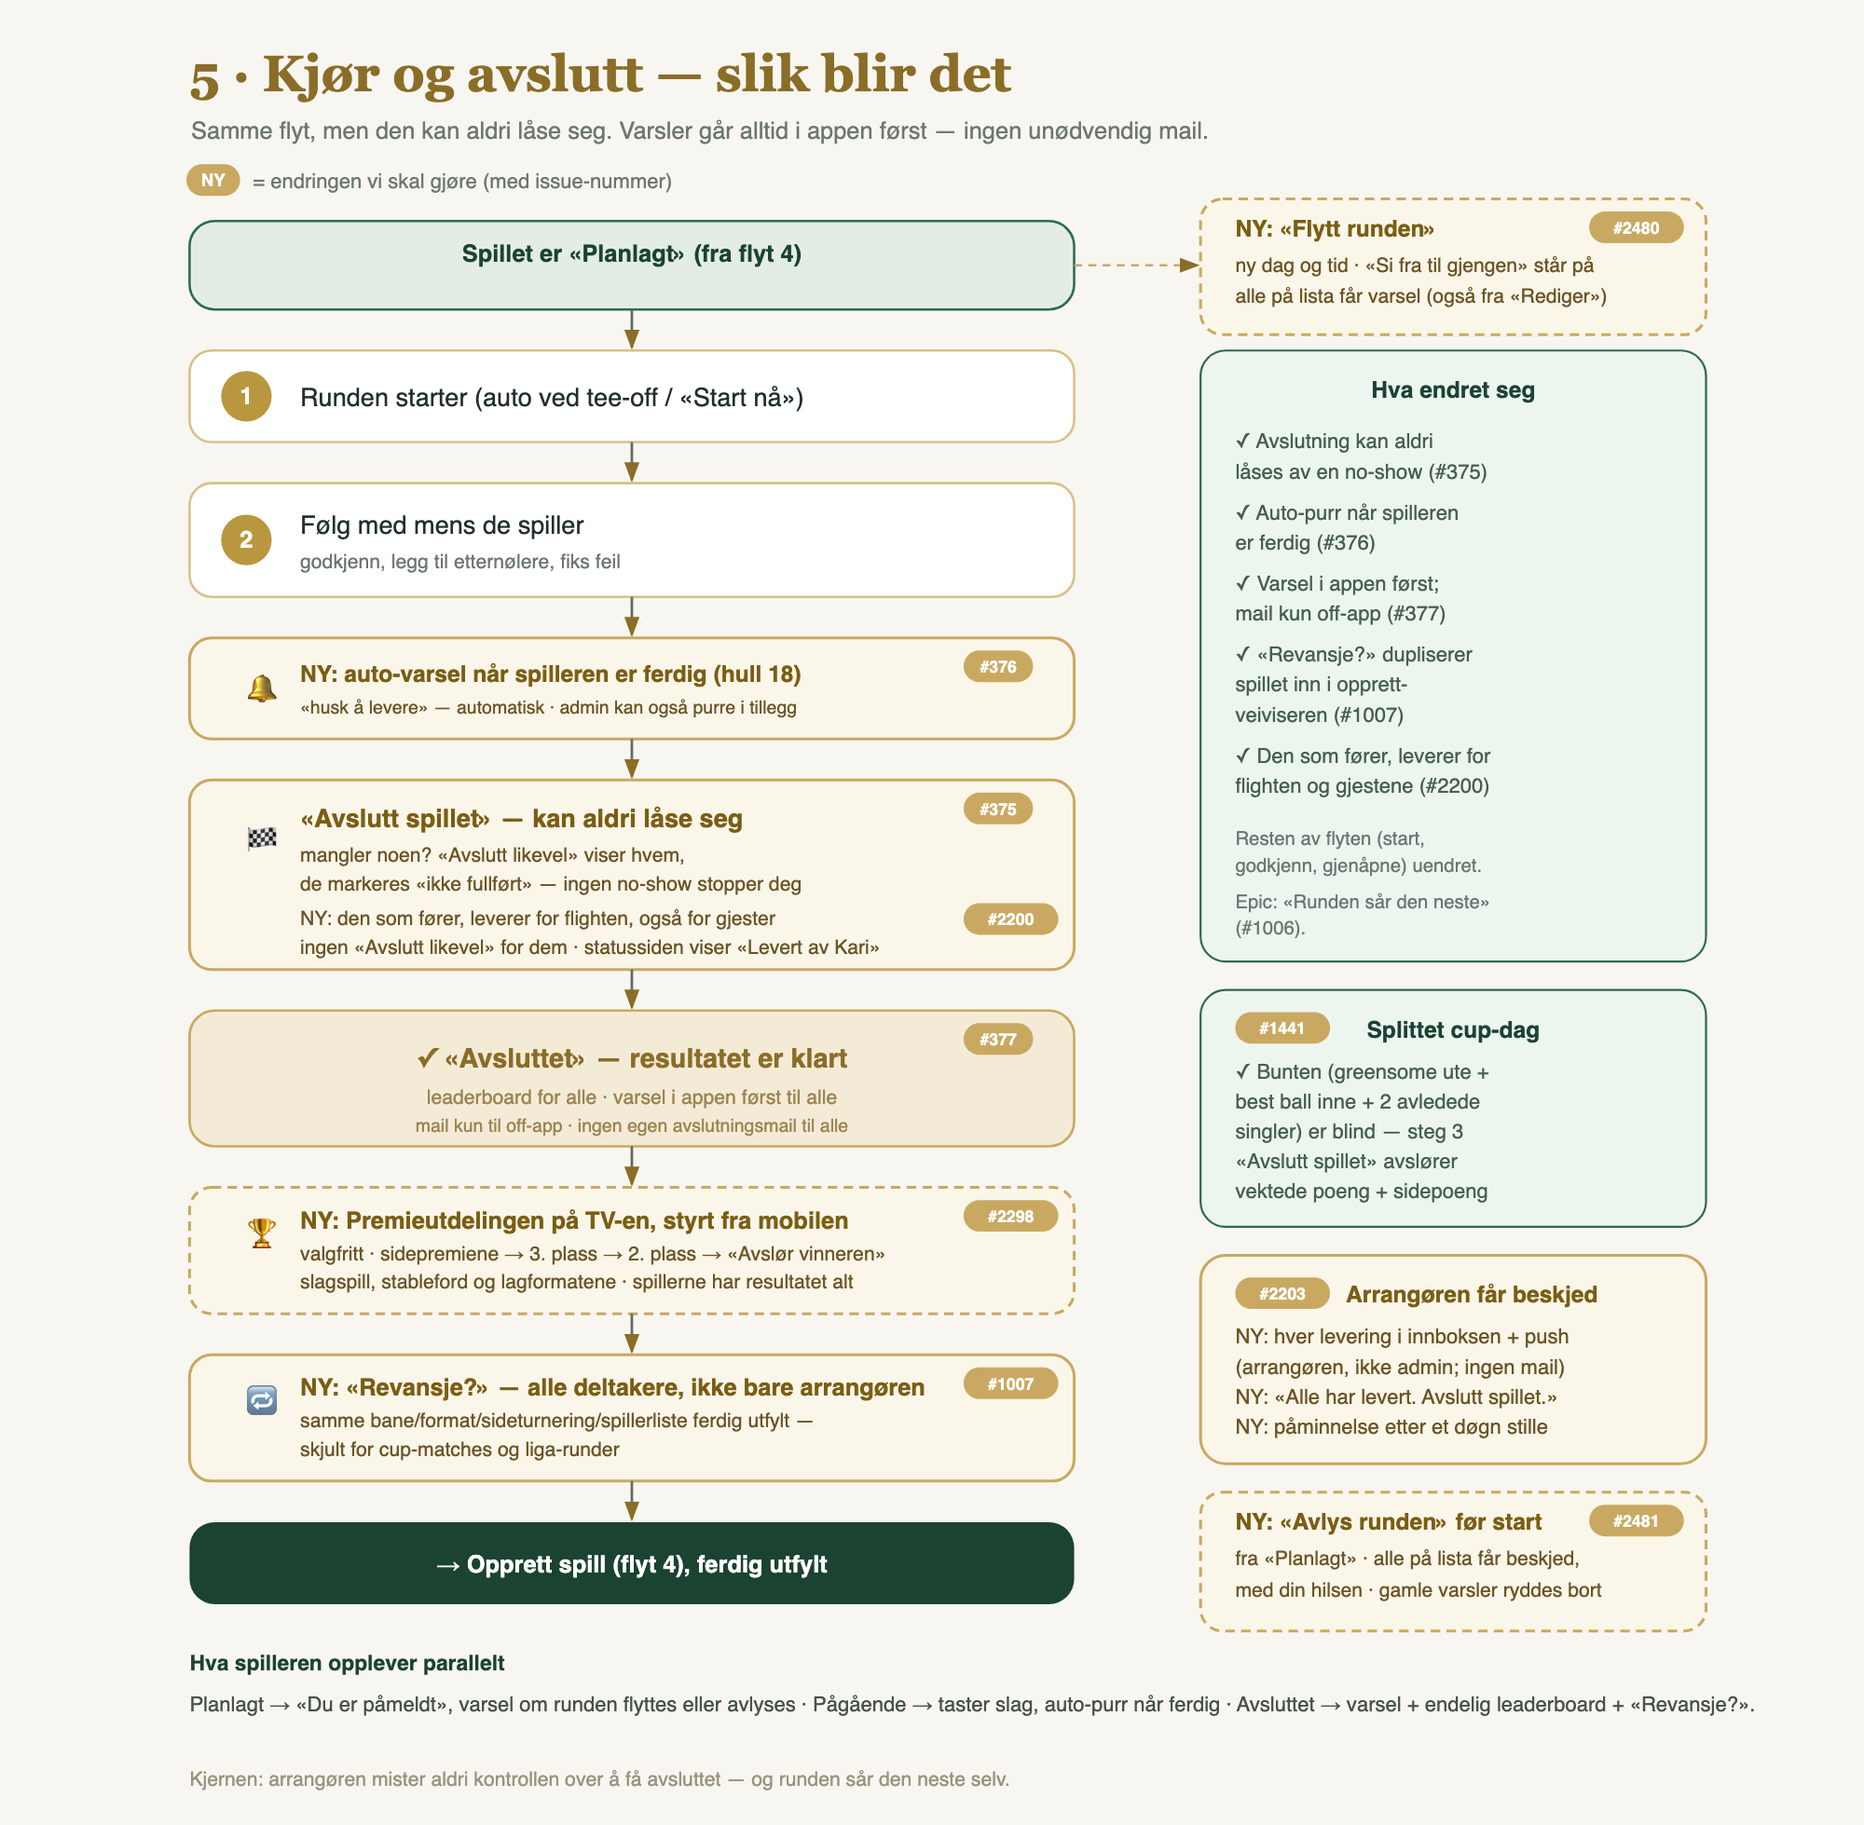
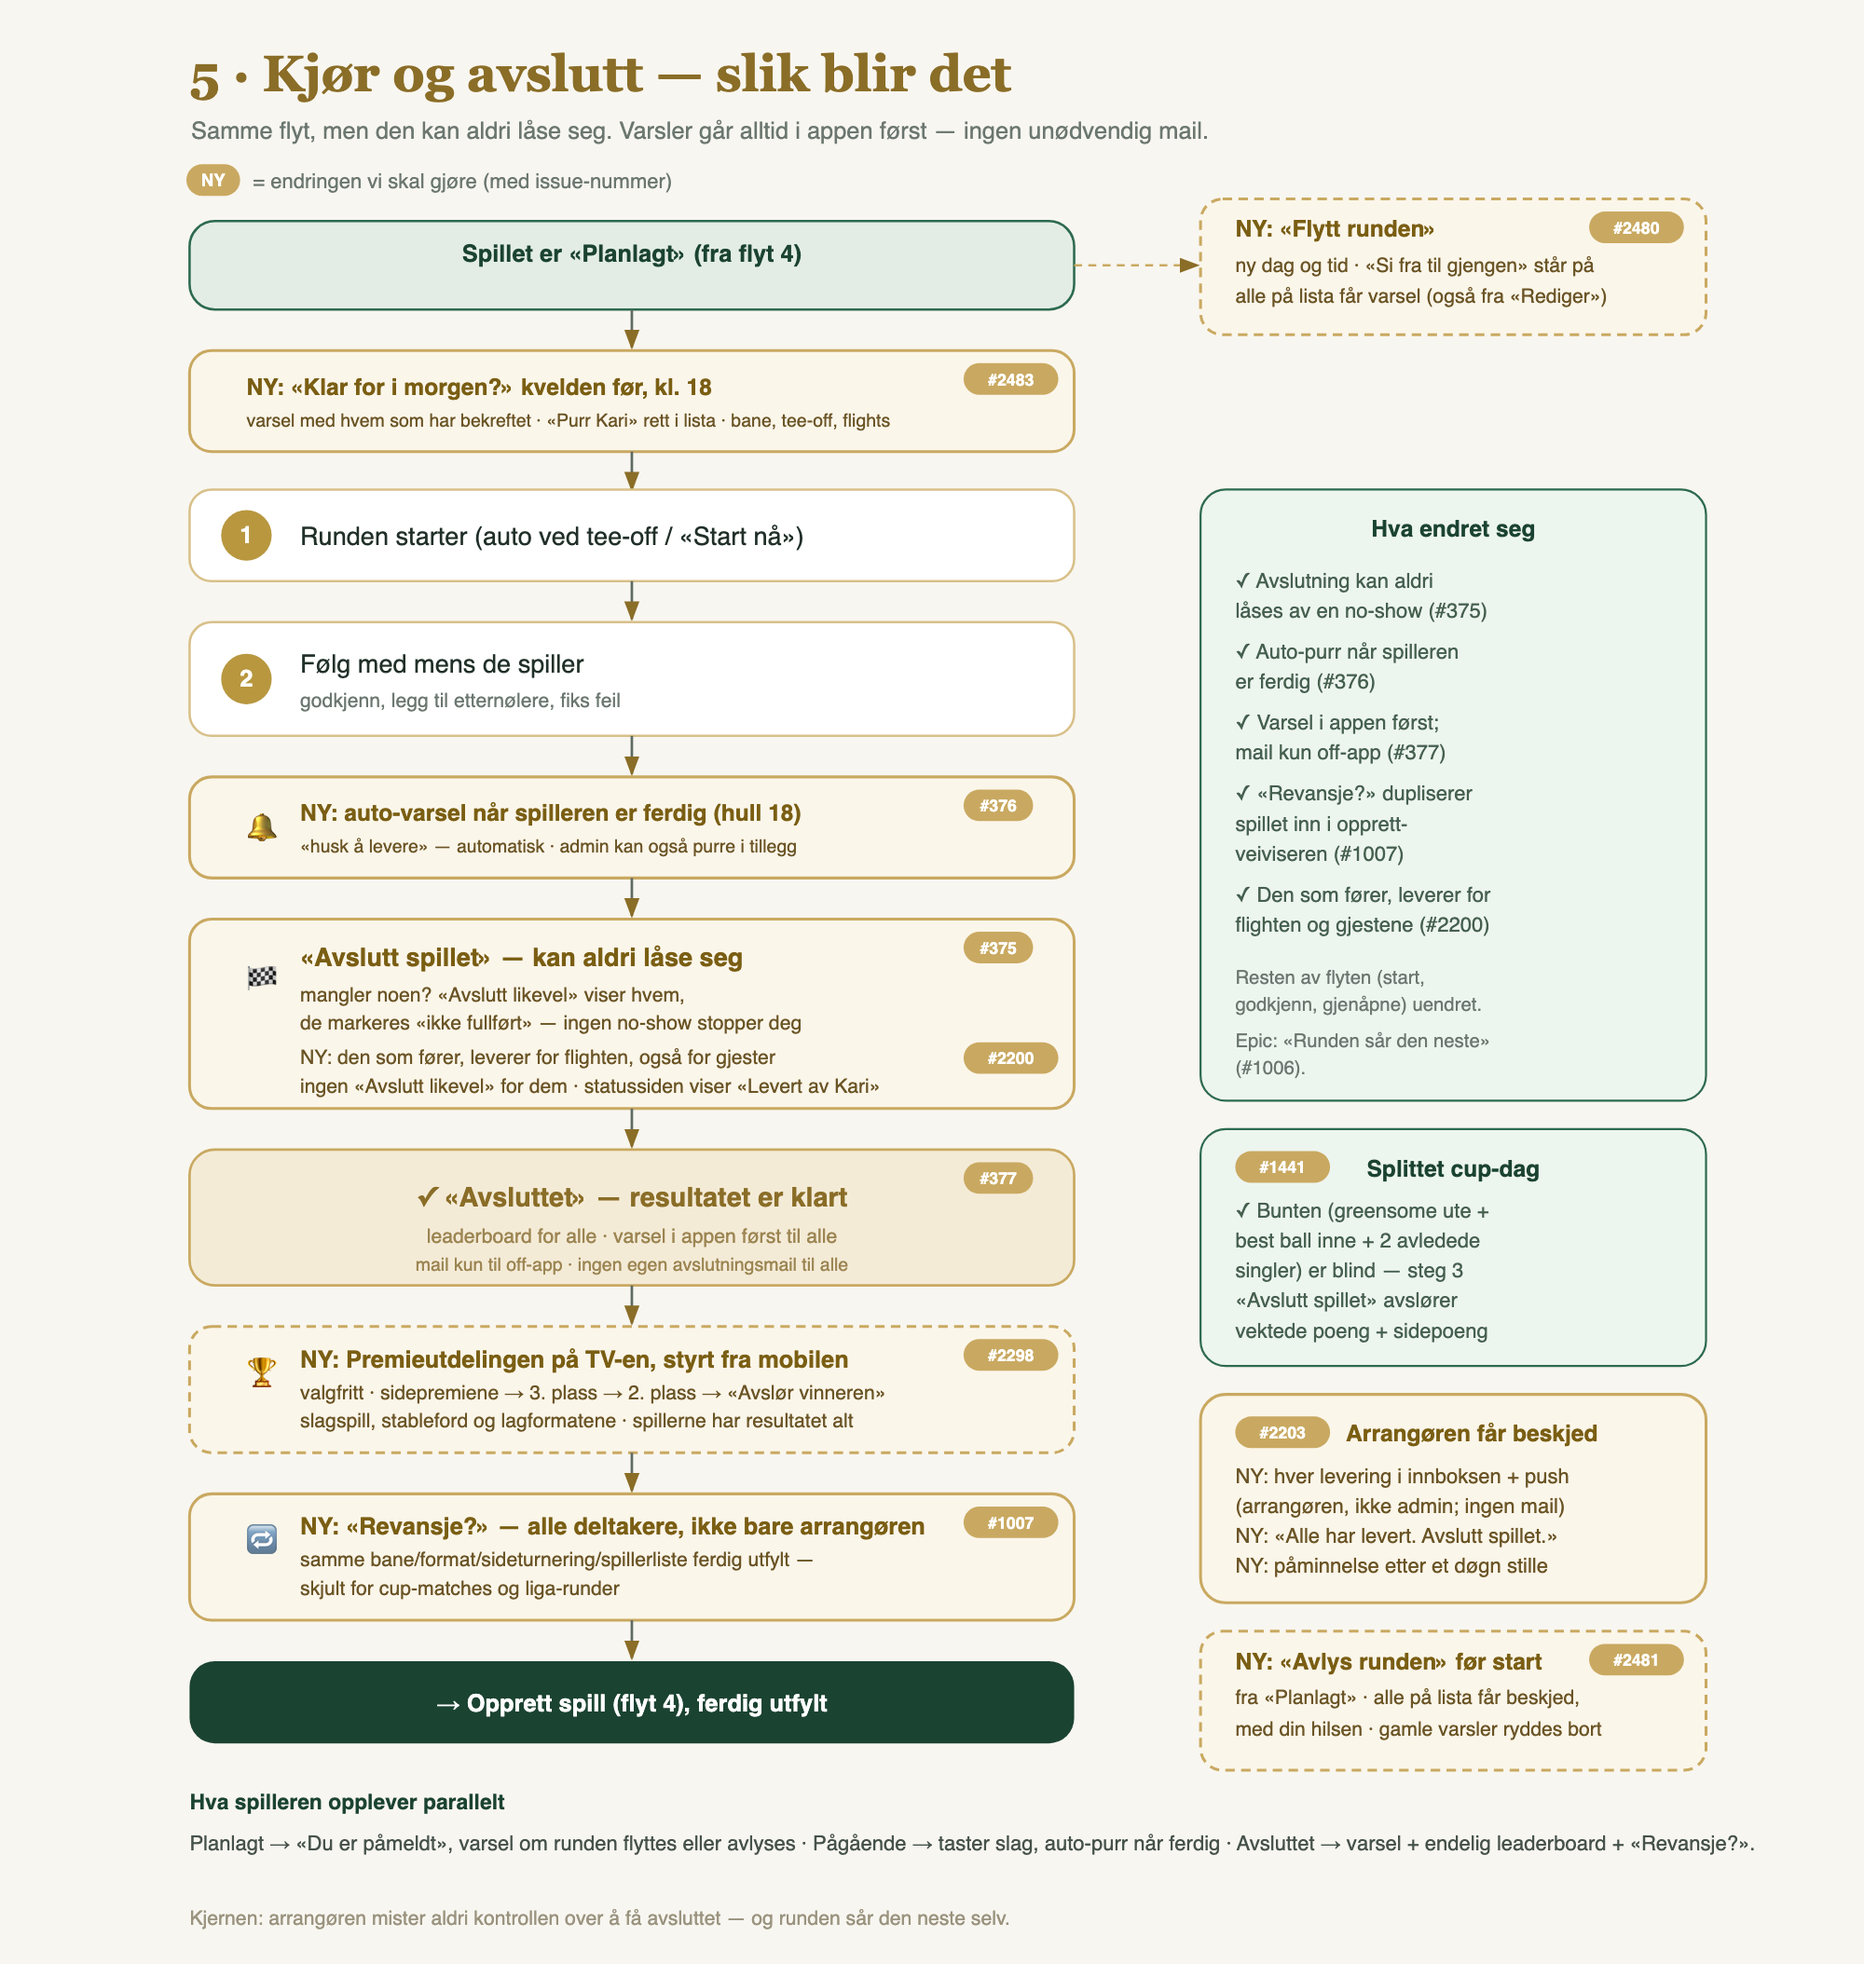
docs(flows): «Klar for i morgen?» before the start in flow 5
Flow 5's future diagram gets the organiser's evening status between
«Planlagt» and «Runden starter»; the rest shifts down. PNG regenerated
(only this one kept). docs/user-flows.md says who gets what and when,
and lib/cron/AGENTS.md has the evening-before-sweep row and a health
query (3e).

Refs #2483

Changed region(s): [[0.093, 0.0311, 0.93, 0.9964], [0.62, 0.0934, 0.93, 0.903], [0.899, 0.5294, 0.93, 0.5605]]

diff --git a/docs/user-flows.md b/docs/user-flows.md
@@ -368,6 +368,7 @@ Publiserer en arrangør som ikke er admin uten å stå på lista selv, lander he
 - **Premieutdelingen** (valgfri, etter «Avslutt», #2298): på et avsluttet spill i slagspill, stableford eller et lagformat med pall har arrangøren «Premieutdelingen →» på spillets side og under «Resultat» i Sekretariatet (`/games/[id]/premieutdeling`). Siden har lenken til storskjermen og én knapp som snur neste kort på TV-en: sidepremiene, 3. plass, 2. plass og «Avslør vinneren», med «Ett steg tilbake», «Start på nytt» og «Lukk». Steget står i `games.ceremony_step`, og TV-en spør etter det hvert 2. sekund. Spillerne har resultatet i appen fra «Avslutt» som før; et gjenåpnet spill starter uten seremoni.
 - **Påminn om hull uten slag** (pulten, #2268): «Påminn» på en hull-rad i «Trenger deg» sender spilleren varselet «Du mangler slag på hull H» (i innboksen, og som push og på e-post når spilleren ikke er i appen; lenke til hullet; varseltypen `missing_score_reminder`, 0203). Som leveringspåminnelsen kan arrangøren purre på nytt (#1891).
 - **Flytt runden** (planlagt spill, #2480): «Flytt runden →» på spillets side for arrangøren og fra «Rediger spill» i Sekretariatet (`/games/[id]/flytt`, `requireAdminOrCreator`). Ny dag og tid med hurtigvalg; «Si fra til gjengen» står på og gir hver aktive spiller på lista (ikke gjester, ikke den som flytter; arrangøren når en admin flytter) ett varsel i innboksen og som push, e-post når spilleren ikke er i appen (`game_moved`, 0226). Endres tee-off i «Rediger» › «Navn og tid», får arrangøren samme spørsmål. Autostart og kalenderfila følger den nye tiden.
+- **Klar for i morgen?** (planlagt spill, kvelden før, #2483): fra kl. 18 norsk tid kvelden før tee-off får arrangøren ett varsel per runde, i innboksen og som push, e-post når arrangøren ikke er i appen: «I morgen: Lørdagsrunden. 7 av 8 har bekreftet. Kari har ikke svart.» (`organizer_evening_status`, 0241; sveipen `evening-before` hvert kvarter, 0242). Ingen varsel for cupkamper, avledede spill, ligaflighter, solorunder eller runder satt opp etter kl. 18 samme kveld. Varselet åpner `/admin/games/[id]/i-morgen` (`requireAdminOrCreator`, også arrangøren uten admin): hvem som har bekreftet (gjester teller som bekreftet), én rad med «Purr Kari» per spiller som ikke har svart (samme purring som «Status»-siden, `player_added`), bane, tee og tee-off, og flightene, med «Flytt runden» og «Se startlista» under. Varselet går én gang per runde; flyttes tee-off, kommer det på nytt kvelden før den nye dagen.
 - **Rediger** (`/admin/games/[id]/edit`; arrangøren `/games/[id]/rediger`). Et utkast gjenopptas i veiviseren på begge, med samme regel (`loadDraftResume`), og feil lander på «Klar?». Planlagte spill og cup- og ligakoblede utkast har skjemaet (#2269). Et planlagt spill åpnes på en oversikt, og hver del åpnes for seg (`?del=`, #2322). «Bane» og «Navn og tid» har de samme kortene, tee-knappene og hurtigvalgene som steg 3 (#2448); spillets bane og tid står valgt også når de ikke er blant hurtigvalgene. **Slett** (`/admin/games/[id]/slett`, **dedikert side**, status-bevisst advarsel). Et planlagt spill med spillere å si fra til heter «Avlys runden?» på begge slett-sidene: navnene på dem som får beskjed, en valgfri hilsen (maks 300 tegn), «Avlys og si fra» og lenken «Flytt runden» for den som heller vil spille en annen dag. Spillerne (ikke gjester, ikke den som avlyser) får beskjed i innboksen, som push og på e-post når de ikke er i appen, med spillnavn, dato og hilsen (`game_cancelled`, 0227). Varselet lenker ingen steder, siden spillet er slettet. Inngangen heter «Avlys runden» på et planlagt spill. Cupkamper beholder den vanlige slett-siden. Hver sletting arkiverer de gamle varslene om spillet (#2481).
 
 ### A3 — Baner, spillere, cup, formater

diff --git a/lib/cron/AGENTS.md b/lib/cron/AGENTS.md
@@ -13,6 +13,7 @@ pg_cron (every minute) → EXISTS gate in the job body → `net.http_post` (pg_n
 | `delivery-reminder-sweep` (every 5 min) | 0192 | an active, non-derived game started in the last 2 days has a player with `submitted_at`, `withdrawn_at` and `deliver_reminder_sent_at` all null | `app/api/cron/delivery-reminder/route.ts` |
 | `stale-game-reminder-sweep` (hourly, :17) | 0205 | an active game that is not a cup match or derived, has a `created_by`, started over 24 h ago and has `organizer_stale_reminder_sent_at is null` | `app/api/cron/stale-game-reminder/route.ts` |
 | `league-round-reminder-sweep` (hourly, :41) | 0217 (stamps), 0218 | an open round (`opens_at <= now() < closes_at`) of an `active` league has `opening_notice_sent_at is null`, or `closing_reminder_sent_at is null` with under 48 h left | `app/api/cron/league-round-reminder/route.ts` |
+| `evening-before-sweep` (every 15 min) | 0241 (stamp), 0242 | it is 18:00 or later in Oslo, and a scheduled game that is not a cup match, derived game or league flight, has a `created_by`, `organizer_evening_notice_sent_at is null`, tee-off on tomorrow's Oslo date, was created before 18:00 Oslo today, and has another non-guest, non-withdrawn player than the organiser | `app/api/cron/evening-before/route.ts` |
 
 `/api/cron/product-update-digest` is not pg_cron: it is the one Vercel Cron in `vercel.json` (daily, GET). Both transports send the same `Authorization: Bearer <CRON_SECRET>`.
 
@@ -70,6 +71,19 @@ select l.name, r.sequence, r.opens_at, r.opening_notice_sent_at,
 from public.league_rounds r join public.leagues l on l.id = r.league_id
 where l.status = 'active'
 order by r.closes_at desc limit 20;
+```
+
+```sql
+-- 3e. The organiser's evening status (#2483): when each scheduled round told its
+--     organiser, against its tee-off. Due from 18:00 Oslo the evening before;
+--     the sweep runs every 15 minutes, so the stamp lands between 18:00 and 18:15
+--     Oslo (later only for a round set up or moved that evening). Moving the
+--     tee-off clears the stamp.
+select id, name, scheduled_tee_off_at,
+       organizer_evening_notice_sent_at at time zone 'Europe/Oslo' as told_oslo
+from public.games
+where organizer_evening_notice_sent_at is not null
+order by organizer_evening_notice_sent_at desc limit 20;
 ```
 
 A start within ~2 minutes of tee-off and a tail within ~1 minute of `ended_at` mean the chain works, whatever signals 1 and 2 look like. A reminder lands between 15 and 20 minutes after a card's last hole (in the one-ball formats the last hole sits on the captain's rows).
